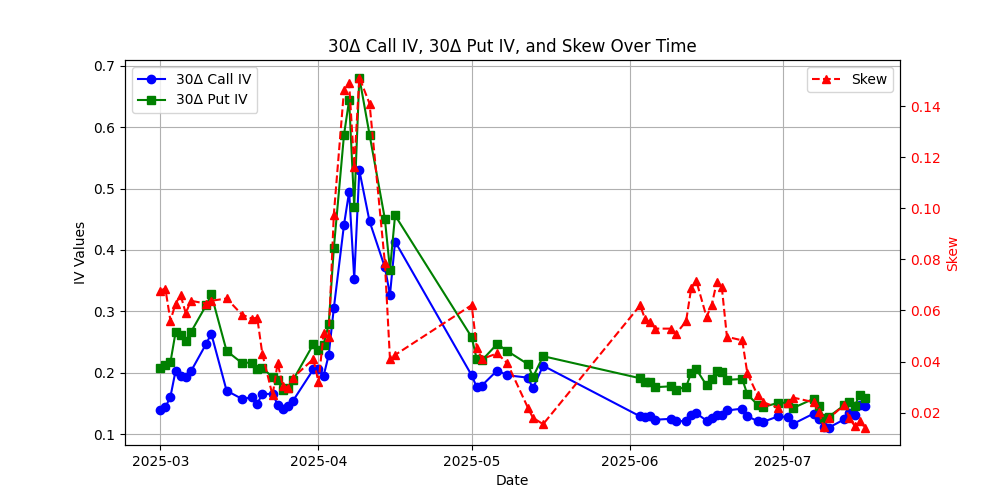
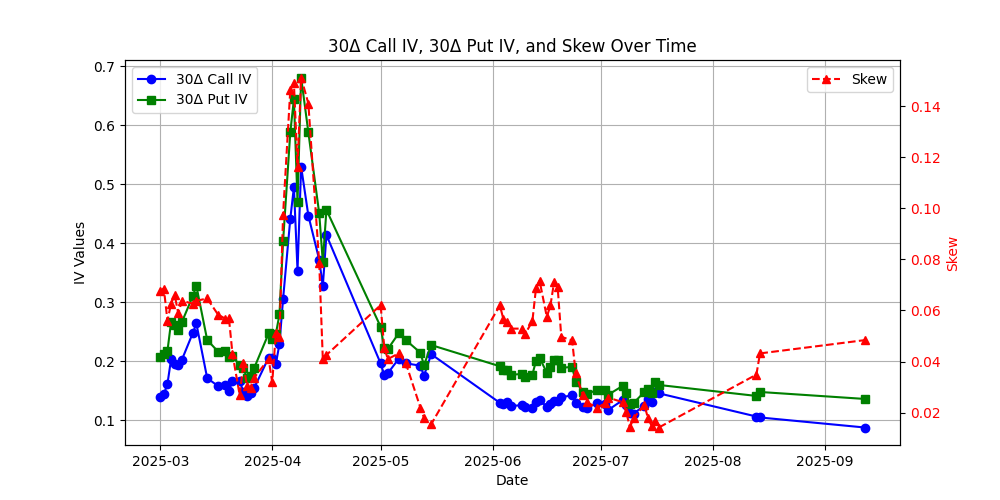
updated

diff --git a/constituent_skew_report_alpaca.py b/constituent_skew_report_alpaca.py
@@ -123,7 +123,7 @@ def get_next_third_friday():
     return third_friday_date.strftime('%Y-%m-%d')
 
 def find_skew(df, expiry_dt):
-    expiry_dt = datetime(2025, 9, 19).date()
+    expiry_dt = datetime(2025, 10, 17).date()
     df = df[df['expiry_date']==expiry_dt]
     
     # Convert delta column to numeric, handling potential NaNs
@@ -207,7 +207,7 @@ def track_daily_constituent_skew():
 
             expiry = get_next_third_friday()
             expiry_dt = pd.to_datetime(expiry, format="%Y-%m-%d").date()
-            expiry_dt = datetime(2025, 9, 19)
+            expiry_dt = datetime(2025, 10, 17)
             
             skew = find_skew(snap, expiry_dt)
             data[symbol] = skew

diff --git a/daily_skew_report_alpaca.py b/daily_skew_report_alpaca.py
@@ -112,7 +112,7 @@ def get_next_third_friday():
     return third_friday_date.strftime('%Y-%m-%d')
 
 def find_skew(df, expiry_dt):
-    expiry_dt = datetime(2025,9,19).date()
+    expiry_dt = datetime(2025, 10, 17).date()
     df = df[df['expiry_date']==expiry_dt]
     
     # Convert delta column to numeric, handling potential NaNs

diff --git a/dispersion_alpaca.py b/dispersion_alpaca.py
@@ -383,7 +383,7 @@ def signal(window, implied_vols, long_signal, short_signal, sp):
 if __name__=="__main__":
     sp = get_constituents()
     exp = get_next_third_friday()
-    exp='2025-09-19'
+    exp='2025-10-17'
     spx_iv = fetch_spx_iv(exp)
 
     implied_vols = get_atm_constituent_options(sp, exp)
